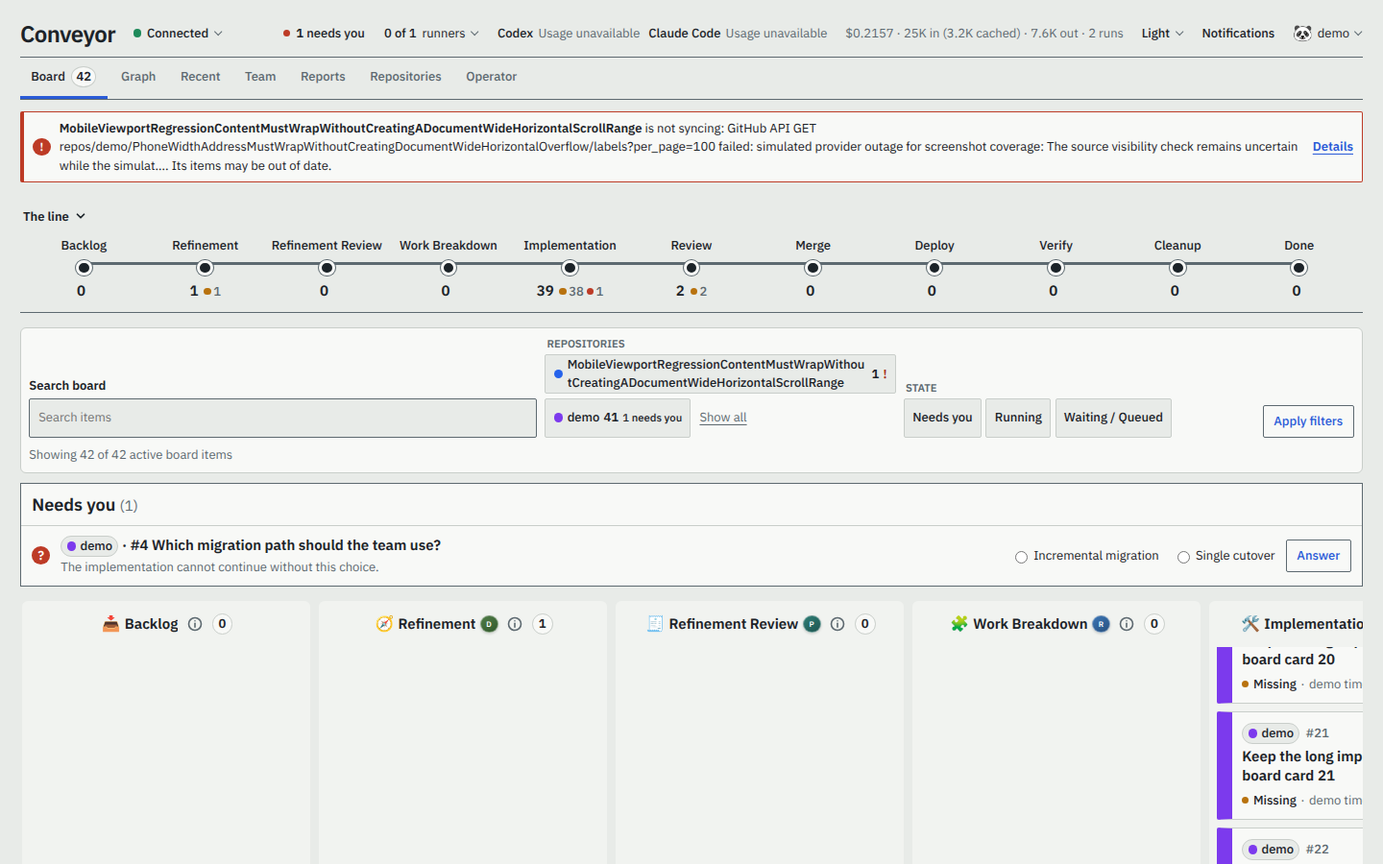
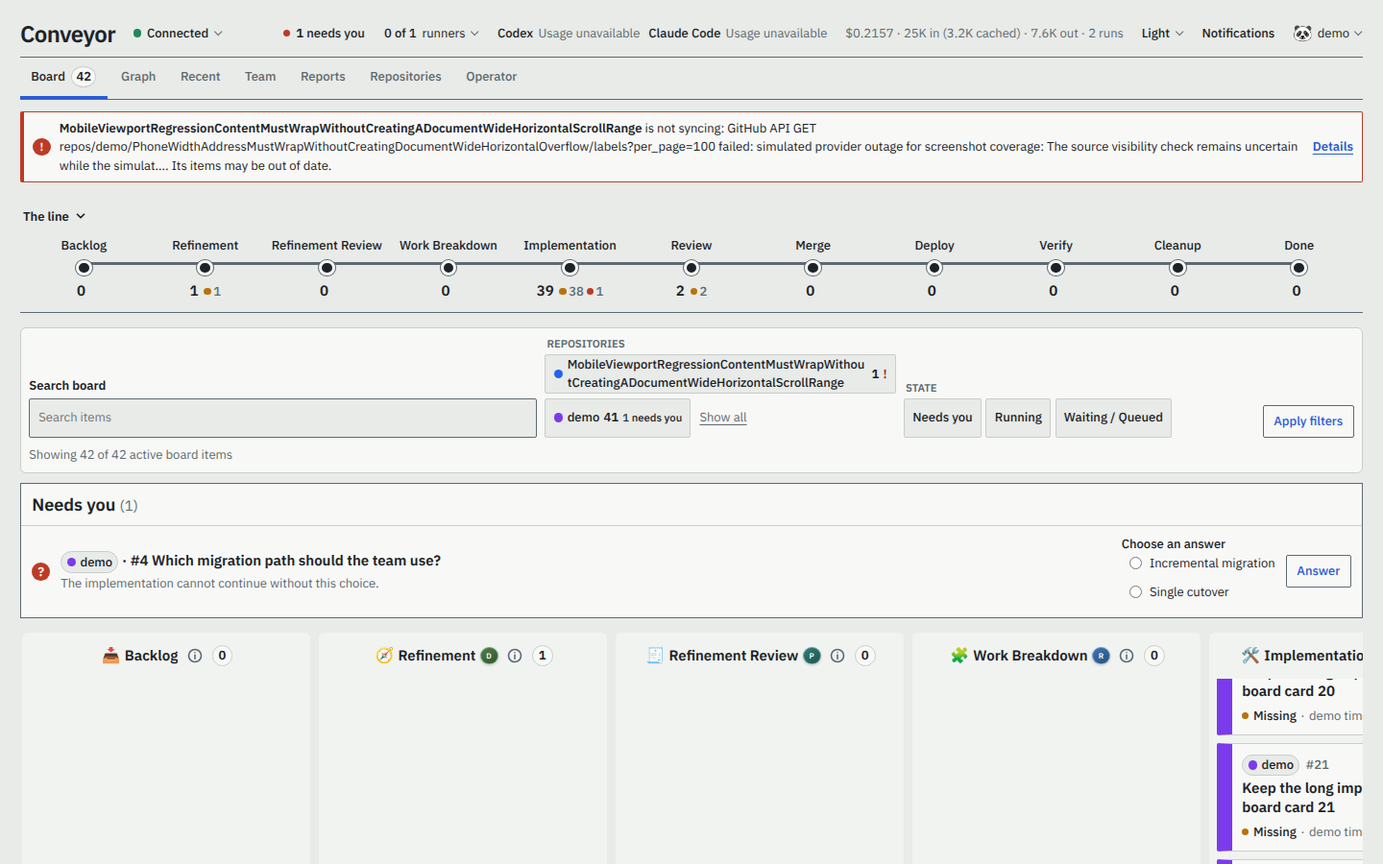
Show described question choices

diff --git a/src/web/styles.ts b/src/web/styles.ts
@@ -21,7 +21,7 @@ export const dashboardCss = `
 .line{margin:.8rem 0 1rem;padding:.55rem .2rem .7rem;border-bottom:1px solid var(--steel)}.line>h2{margin:0 0 .4rem;font-size:var(--text-sm);font-weight:600}.line ol{display:flex;margin:0;padding:0;list-style:none}.line-station{position:relative;flex:1;min-width:5.5rem}.line-station::after{content:"";position:absolute;z-index:0;top:1.8rem;right:50%;left:-50%;height:3px;background:var(--steel)}.line-station:first-child::after{left:50%}.line-station a{position:relative;z-index:1;display:grid;justify-items:center;gap:.32rem;color:var(--ink);font-size:var(--text-sm);font-weight:500;text-align:center;text-decoration:none}.line-station a::before{content:"";order:2;width:.72rem;height:.72rem;border:3px solid var(--panel);border-radius:50%;background:var(--ink);box-shadow:0 0 0 1px var(--steel)}.line-station-name{order:1;white-space:nowrap}.line-station-state{order:3;display:flex;align-items:center;gap:.38rem;color:var(--steel);font-variant-numeric:tabular-nums}.line-station-state strong{color:var(--ink);font-size:var(--text-body)}.andon-signals,.andon-count{display:flex;align-items:center;gap:.18rem;min-height:.5rem}.andon-count small{font-size:var(--text-sm)}.andon{display:block;width:.48rem;height:.48rem;flex:none;border-radius:50%}.andon--run{background:var(--run)}.andon--wait{background:var(--wait)}.andon--stop{background:var(--stop)}.line-station--running::after{background:repeating-linear-gradient(90deg,var(--steel) 0 8px,var(--panel) 8px 12px);background-size:24px 3px}
 .repository-warnings{margin:0 0 .8rem}.repository-warnings ul{display:grid;gap:.35rem;margin:0;padding:0;list-style:none}.repository-warnings li{display:flex;align-items:center;gap:.6rem;padding:.45rem .6rem;border:1px solid var(--stop);border-left-width:4px;border-radius:2px;background:var(--panel);font-size:var(--text-sm)}.repository-warning-mark{display:inline-flex;flex:none;align-items:center;justify-content:center;width:1.25rem;height:1.25rem;border-radius:50%;background:var(--stop);color:var(--panel);font-weight:700;font-size:.8rem}.repository-warning-text{flex:1;min-width:0;color:var(--ink);overflow-wrap:anywhere}.repository-warnings a{flex:none;display:inline-flex;align-items:center;min-height:2rem;color:var(--signal);font-weight:600}@media(max-width:760px){.repository-warnings li{align-items:flex-start}.repository-warnings a{min-height:2.75rem;align-items:flex-start;padding-top:.1rem}}
 .system-warnings{margin:0 0 1rem;padding:.7rem .8rem;border:1px solid var(--stop);background:var(--panel);color:var(--stop-text)}.system-warnings h2{margin:0 0 .3rem;font-size:var(--text-body);font-weight:600}.system-warnings ul{margin:0;padding-left:1.2rem;font-size:var(--text-sm)}
-.needs-you{margin:0 0 1rem;border:1px solid var(--steel);background:var(--panel)}.needs-you>header{padding:.55rem .75rem;border-bottom:1px solid var(--line)}.needs-you h2{margin:0;font-size:var(--text-lg);font-weight:600}.needs-you h2 span{color:var(--steel);font-size:var(--text-body);font-weight:400}.needs-you-empty{margin:0;padding:.75rem;color:var(--steel);font-size:var(--text-sm)}.needs-you>ol{margin:0;padding:0;list-style:none}.needs-you-item{display:grid;grid-template-columns:1.25rem minmax(0,1fr) auto;align-items:center;gap:.75rem;padding:.6rem .75rem}.needs-you-item+.needs-you-item{border-top:1px solid var(--line)}.needs-you-item>.andon{width:.58rem;height:.58rem;justify-self:center}.needs-you-item h3{margin:0;font-size:var(--text-body);font-weight:600}.needs-you-item p{margin:.05rem 0 0;color:var(--steel);font-size:var(--text-sm);display:-webkit-box;-webkit-box-orient:vertical;-webkit-line-clamp:3;overflow:hidden;overflow-wrap:anywhere}.needs-you-question{display:grid;width:1.25rem;height:1.25rem;place-items:center;line-height:1;border-radius:50%;background:var(--stop);color:var(--on-signal);font-size:var(--text-sm);font-weight:600}.needs-you-item form{display:flex;align-items:center;justify-content:flex-end;gap:.55rem;flex-wrap:wrap}.option{display:flex;align-items:center;gap:.2rem;margin:0;font-size:var(--text-sm)}.free-text{display:grid;gap:.25rem;min-width:12rem;margin:0;font-size:var(--text-sm);font-weight:500}.free-text input{min-width:0;border:1px solid var(--steel);padding:.35rem}
+.needs-you{margin:0 0 1rem;border:1px solid var(--steel);background:var(--panel)}.needs-you>header{padding:.55rem .75rem;border-bottom:1px solid var(--line)}.needs-you h2{margin:0;font-size:var(--text-lg);font-weight:600}.needs-you h2 span{color:var(--steel);font-size:var(--text-body);font-weight:400}.needs-you-empty{margin:0;padding:.75rem;color:var(--steel);font-size:var(--text-sm)}.needs-you>ol{margin:0;padding:0;list-style:none}.needs-you-item{display:grid;grid-template-columns:1.25rem minmax(0,1fr) auto;align-items:center;gap:.75rem;padding:.6rem .75rem}.needs-you-item+.needs-you-item{border-top:1px solid var(--line)}.needs-you-item>.andon{width:.58rem;height:.58rem;justify-self:center}.needs-you-item h3{margin:0;font-size:var(--text-body);font-weight:600}.needs-you-item p{margin:.05rem 0 0;color:var(--steel);font-size:var(--text-sm);display:-webkit-box;-webkit-box-orient:vertical;-webkit-line-clamp:3;overflow:hidden;overflow-wrap:anywhere}.needs-you-question{display:grid;width:1.25rem;height:1.25rem;place-items:center;line-height:1;border-radius:50%;background:var(--stop);color:var(--on-signal);font-size:var(--text-sm);font-weight:600}.needs-you-item form{display:flex;align-items:center;justify-content:flex-end;gap:.55rem;flex-wrap:wrap}.question-answer-fields{display:grid;min-width:0;gap:.45rem}.question-options{display:grid;min-width:0;gap:.3rem;margin:0;padding:0;border:0}.question-options legend{padding:0;font-size:var(--text-sm);font-weight:500}.option{display:flex;align-items:flex-start;gap:.35rem;min-width:0;margin:0;font-size:var(--text-sm)}.option input{flex:none;margin-top:.2rem}.option-copy{display:grid;min-width:0;gap:.1rem}.option-description{color:var(--steel);overflow-wrap:anywhere}.free-text{display:grid;min-width:12rem;gap:.25rem;margin:0;font-size:var(--text-sm);font-weight:500}.free-text input{width:100%;min-width:0;border:1px solid var(--steel);padding:.35rem}
 .tabs{display:flex;align-items:center;gap:.2rem;margin-bottom:.8rem;border-bottom:1px solid var(--steel)}.tab{display:flex;align-items:center;gap:.4rem;padding:.6rem .75rem;border-bottom:3px solid transparent;color:var(--steel);font-size:var(--text-sm);font-weight:500;text-decoration:none}.tab:hover{background:var(--panel)}.tab--active{border-bottom-color:var(--signal);color:var(--ink)}.needs-you-link{display:flex;align-items:center;gap:.35rem;color:var(--ink);font-size:var(--text-sm);font-weight:500;text-decoration:none;white-space:nowrap}.needs-you-link:hover{color:var(--signal)}.sticky-filter-summary{min-width:0;max-width:20rem;overflow:hidden;color:var(--steel);font-size:var(--text-sm);text-overflow:ellipsis;white-space:nowrap}#content,#needs-you-heading,[id^="station-"]{scroll-margin-top:calc(var(--dashboard-sticky-height) + .5rem)}.tab-count,.count{display:inline-grid;min-width:1.45rem;height:1.45rem;padding:0 .3rem;place-items:center;border:1px solid var(--line);border-radius:50%;background:var(--panel);color:var(--ink);font-size:var(--text-sm);font-weight:600;font-variant-numeric:tabular-nums}
 .board{display:flex;align-items:flex-start;gap:.6rem;overflow-x:auto;overscroll-behavior-x:contain;padding:.1rem .1rem 1rem;scrollbar-color:var(--steel) transparent}.stage{display:flex;flex-direction:column;scroll-margin-top:1rem;border:1px solid var(--line);border-radius:2px;background:var(--panel);padding:.65rem}.stage{width:min(20rem,86vw);min-width:min(20rem,86vw);max-width:min(20rem,86vw);flex:0 0 min(20rem,86vw)}.stage-heading{display:grid;grid-template-columns:minmax(0,1fr) auto;align-items:center;gap:.35rem .5rem;padding:0 0 .6rem}.stage-heading h2,.section-heading h2{margin:0;font-size:var(--text-lg);font-weight:600}.stage-identity,.stage-summary{display:contents}.stage-heading h2{grid-column:1;grid-row:1;min-width:0}.stage-heading .count{grid-column:2;grid-row:1}.stage-actors,.stage-cost{grid-column:1/-1}.stage-identity p{margin:.12rem 0 0;color:var(--steel);font-size:var(--text-sm)}.stage-identity strong{color:var(--ink);font-weight:500}.stage-cost{min-width:0;color:var(--steel);font-size:var(--text-sm);font-variant-numeric:tabular-nums;overflow-wrap:anywhere}.issue-list,.criteria-list,.relationships ul,.attention-grid,.agent-events,.agent-history ol{margin:0;padding:0;list-style:none}.issue-list{display:grid;gap:.55rem}.issue-list>li{min-width:0}.empty{margin:.2rem 0;padding:.75rem;color:var(--steel);font-size:var(--text-sm);text-align:center}
 .stage-actors{display:flex;flex-wrap:wrap;gap:.4rem;margin-top:.35rem}.stage-actor{display:flex;min-width:0;align-items:center;gap:.4rem;color:var(--steel);font-size:var(--text-sm)}.stage-actor>span:last-child{display:grid;min-width:0;line-height:1.2}.stage-actor strong{overflow:hidden;color:var(--ink);font-weight:500;text-overflow:ellipsis;white-space:nowrap}.stage-actor small{overflow:hidden;color:var(--steel);font-size:11px;text-overflow:ellipsis;white-space:nowrap}.agent-avatar{display:inline-grid;width:2rem;height:2rem;flex:0 0 2rem;place-items:center;border:1px solid rgba(255,255,255,.38);border-radius:50%;color:#fff;font-size:11px;font-weight:600;letter-spacing:.02em;line-height:1;box-shadow:0 1px 3px rgba(0,0,0,.18)}.agent-avatar--1{background:linear-gradient(145deg,#7357b8,#493184)}.agent-avatar--2{background:linear-gradient(145deg,#b34c78,#7c2854)}.agent-avatar--3{background:linear-gradient(145deg,#2f7e75,#1d5550)}.agent-avatar--4{background:linear-gradient(145deg,#3b75b5,#28517f)}.agent-avatar--5{background:linear-gradient(145deg,#9a6435,#6d421e)}.agent-avatar--6{background:linear-gradient(145deg,#507d48,#31582b)}.agent-avatar--script{border-color:var(--line);background:var(--concrete);color:var(--steel);font-family:"IBM Plex Mono",monospace;box-shadow:none}

diff --git a/tests/web/refresh-position.test.ts b/tests/web/refresh-position.test.ts
@@ -197,7 +197,7 @@ function startDashboard(state: {
   revision: () => string;
   /** How long a command takes to be accepted. */
   commandDelayMs?: () => number;
-  answerQuestion?: () => Promise<void>;
+  answerQuestion?: (questionId: string, answer: string) => Promise<void>;
   approveManualGate?: () => Promise<void>;
   setBoardApprovalRequirement?: (required: boolean) => void;
   systemStatus?: () => SystemStatusViewModel;
@@ -228,7 +228,7 @@ function startDashboard(state: {
     return work();
   };
   const { commands } = fakeCommandBus({
-    answerQuestion: () => delayed(() => state.answerQuestion?.()), approveManualGate: () => delayed(() => state.approveManualGate?.()),
+    answerQuestion: (questionId: string, answer: string) => delayed(() => state.answerQuestion?.(questionId, answer)), approveManualGate: () => delayed(() => state.approveManualGate?.()),
     setBoardApprovalRequirement: (_issueId: string, _stageId: string, required: boolean) => delayed(() => state.setBoardApprovalRequirement?.(required)),
     reorderBacklog: () => {}, moveBacklogIssue: () => {}, startSteering: () => "run-1",
     postIssueMessage: () => ({}), retryIssue: () => ({}), resumeIssue: () => ({}), resumeRollupParent: () => ({}), dismissFinding: () => {},
@@ -1538,6 +1538,85 @@ describe("dashboard live refresh position", () => {
       await page.waitForFunction(() => !document.querySelector(".needs-you-item--question"));
       // Patched in place: the page was not reloaded.
       expect(await page.evaluate(() => (document.querySelector("main.dashboard") as unknown as { untouched?: boolean }).untouched === true)).toBe(true);
+    } finally {
+      server.stop(true);
+    }
+  }, 30_000);
+  test("question forms require an answer and submit the most recently chosen value", async () => {
+    const answers: string[] = [];
+    const question = {
+      id: "q-1", issueId: "card-1", repository: "sample", repositoryColor: 1, issueNumber: 3, issueTitle: "Card",
+      prompt: "Which behavior?", reason: "It decides the schema.",
+      options: [
+        { id: "keep_today", label: "Keep today's behavior", description: "Keep the current behavior." },
+        { id: "adopt_issue", label: "Use issue behavior", description: "Use the issue behavior." },
+      ], allowFreeText: true,
+    };
+    const server = startDashboard({
+      dashboard: () => ({ ...dashboard("question-form", [issue("card-1", 3, "Card")]), questions: [question] }),
+      revision: () => "question-form",
+      answerQuestion: async (_questionId, answer) => { answers.push(answer); },
+    });
+    try {
+      browser = await chromium.launch({ headless: true });
+      const page = await browser.newPage({ viewport: { width: 360, height: 800 }, isMobile: true, hasTouch: true });
+      await signIn(page, server.port);
+      const form = page.locator("[data-answer-form]");
+      const submit = form.locator(".answer-button");
+
+      await submit.click();
+      await page.waitForFunction(() => document.querySelector("[data-answer-status]")?.textContent === "An answer is required.");
+      expect(await form.locator("[data-answer-status]").getAttribute("data-error")).toBe("true");
+      expect(answers).toEqual([]);
+
+      await form.locator('[data-answer-choice][value="keep_today"]').check();
+      await submit.click();
+      await page.waitForFunction(() => document.querySelector("[data-answer-form] .answer-button")?.textContent === "Answered");
+      expect(answers).toEqual(["keep_today"]);
+
+      await page.reload();
+      await form.locator("[data-answer-free-text]").fill(" A custom answer ");
+      await submit.click();
+      await page.waitForFunction(() => document.querySelector("[data-answer-form] .answer-button")?.textContent === "Answered");
+      expect(answers).toEqual(["keep_today", " A custom answer "]);
+
+      await page.reload();
+      await form.locator('[data-answer-choice][value="keep_today"]').check();
+      await form.locator("[data-answer-free-text]").fill("A later custom answer");
+      await submit.click();
+      await page.waitForFunction(() => document.querySelector("[data-answer-form] .answer-button")?.textContent === "Answered");
+      expect(answers).toEqual(["keep_today", " A custom answer ", "A later custom answer"]);
+
+      await page.reload();
+      await form.locator("[data-answer-free-text]").fill("An earlier custom answer");
+      await form.locator('[data-answer-choice][value="adopt_issue"]').check();
+      await submit.click();
+      await page.waitForFunction(() => document.querySelector("[data-answer-form] .answer-button")?.textContent === "Answered");
+      expect(answers).toEqual(["keep_today", " A custom answer ", "A later custom answer", "adopt_issue"]);
+    } finally {
+      server.stop(true);
+    }
+  }, 30_000);
+  test("question forms fit a phone viewport in light and dark themes", async () => {
+    const question = {
+      id: "q-1", issueId: "card-1", repository: "sample", repositoryColor: 1, issueNumber: 3, issueTitle: "Card",
+      prompt: "Which behavior?", reason: "It decides the schema.",
+      options: [{ id: "keep_today", label: "Keep today's behavior", description: "Averylongdescriptionwithoutspacesmuststillwrapatthephoneviewportwidth." }],
+      allowFreeText: true,
+    };
+    const server = startDashboard({
+      dashboard: () => ({ ...dashboard("question-layout", [issue("card-1", 3, "Card")]), questions: [question] }),
+      revision: () => "question-layout",
+    });
+    try {
+      browser = await chromium.launch({ headless: true });
+      for (const colorScheme of ["light", "dark"] as const) {
+        const page = await browser.newPage({ viewport: { width: 360, height: 800 }, isMobile: true, hasTouch: true, colorScheme });
+        await signIn(page, server.port);
+        await page.locator(".needs-you-item--question").waitFor();
+        expect(await page.evaluate(() => document.documentElement.scrollWidth <= window.innerWidth)).toBe(true);
+        await page.close();
+      }
     } finally {
       server.stop(true);
     }

diff --git a/src/web/app/behaviour.ts b/src/web/app/behaviour.ts
@@ -479,9 +479,25 @@ async function post(url: string, fields: URLSearchParams): Promise<{ ok: true; b
   return { ok: true, body };
 }
 
+function questionAnswer(form: HTMLFormElement): string | null {
+  const custom = form.querySelector<HTMLInputElement>("[data-answer-free-text]");
+  const choice = form.querySelector<HTMLInputElement>("[data-answer-choice]:checked");
+  const customAnswer = custom?.value;
+  if (form.dataset.answerSource === "free-text" && customAnswer?.trim()) return customAnswer;
+  if (form.dataset.answerSource === "choice" && choice) return choice.value;
+  if (customAnswer?.trim()) return customAnswer;
+  return choice?.value ?? null;
+}
+
 function formFields(form: HTMLFormElement, csrfToken: string): URLSearchParams {
   const fields = new URLSearchParams();
   for (const [name, value] of new FormData(form)) if (typeof value === "string") fields.append(name, value);
+  if (form.matches("[data-answer-form]")) {
+    const answer = questionAnswer(form);
+    fields.delete("answer");
+    fields.delete("freeText");
+    if (answer !== null) fields.set("answer", answer);
+  }
   fields.set("csrf", csrfToken);
   return fields;
 }
@@ -572,20 +588,33 @@ async function submitForm(form: HTMLFormElement, csrfToken: string): Promise<boo
     const button = form.querySelector("button[type='submit']");
     const status = form.querySelector("[data-answer-status]");
     if (!(button instanceof HTMLButtonElement) || button.disabled) return true;
+    if (questionAnswer(form) === null) {
+      if (status instanceof HTMLElement) {
+        status.textContent = "An answer is required.";
+        status.dataset.error = "true";
+      }
+      return true;
+    }
     const label = button.textContent;
     button.disabled = true;
     button.setAttribute("aria-busy", "true");
     button.textContent = "Answering…";
-    if (status) status.textContent = "";
+    if (status instanceof HTMLElement) {
+      status.textContent = "";
+      delete status.dataset.error;
+    }
     try {
       await post(form.action, formFields(form, csrfToken));
       button.textContent = "Answered";
-      if (status) status.textContent = "Answer recorded. The agent continues.";
+      if (status instanceof HTMLElement) status.textContent = "Answer recorded. The agent continues.";
     } catch (error) {
       button.disabled = false;
       button.removeAttribute("aria-busy");
       button.textContent = label;
-      if (status) status.textContent = error instanceof Error ? error.message : "Your answer could not be recorded. Try again.";
+      if (status instanceof HTMLElement) {
+        status.textContent = error instanceof Error ? error.message : "Your answer could not be recorded. Try again.";
+        status.dataset.error = "true";
+      }
     }
     return true;
   }
@@ -939,10 +968,25 @@ export function bindBoardBehaviour(options: { root: HTMLElement; store: LiveStor
     return { ...filtersFromUrl(), ...(search instanceof HTMLInputElement ? { q: search.value } : {}) };
   };
   root.addEventListener("input", (event) => {
-    if (event.target instanceof HTMLInputElement && event.target.matches("[data-filter-search]")) writeBoardFilters(root, currentFilters(), redraw);
+    const input = event.target;
+    if (!(input instanceof HTMLInputElement)) return;
+    if (input.matches("[data-answer-free-text]")) {
+      const form = input.closest<HTMLFormElement>("[data-answer-form]");
+      if (form) {
+        const choice = form.querySelector<HTMLInputElement>("[data-answer-choice]:checked");
+        if (input.value.trim()) form.dataset.answerSource = "free-text";
+        else if (choice) form.dataset.answerSource = "choice";
+        else delete form.dataset.answerSource;
+      }
+    }
+    if (input.matches("[data-filter-search]")) writeBoardFilters(root, currentFilters(), redraw);
   });
   root.addEventListener("change", (event) => {
     const input = event.target;
+    if (input instanceof HTMLInputElement && input.matches("[data-answer-choice]") && input.checked) {
+      const form = input.closest<HTMLFormElement>("[data-answer-form]");
+      if (form) form.dataset.answerSource = "choice";
+    }
     if (!(input instanceof HTMLInputElement) || !input.closest("[data-board-filters]")) return;
     const next = currentFilters();
     if (input.matches("[data-filter-repository]")) {

diff --git a/src/web/render.tsx b/src/web/render.tsx
@@ -1166,7 +1166,7 @@ function NeedsYou({ model }: { model: DashboardViewModel }) {
             </form> : <a class="needs-you-action action-button action-button--secondary" href={issueHref(issue.repository, issue.number)}>Open</a>}
           </li>
         ))}
-        {model.questions.map((question, questionIndex) => (
+        {model.questions.map((question) => (
           <li class={`needs-you-item needs-you-item--question repo-color-${question.repositoryColor}`} key={question.id}>
             <span class="needs-you-question" aria-hidden="true">?</span>
             <div>
@@ -1175,18 +1175,18 @@ function NeedsYou({ model }: { model: DashboardViewModel }) {
             </div>
             {canManage && question.answerError ? <p role="alert">{question.answerError}</p> : canManage && <form method="post" action={`/questions/${encodeURIComponent(question.id)}/answer`} data-answer-form>
               <input type="hidden" name="csrf" value={model.csrfToken} />
-              {question.allowFreeText ? (
-                <Fragment>
-                  <label class="free-text">Your answer<input name="answer" list={`question-options-${questionIndex}`} required /></label>
-                  <datalist id={`question-options-${questionIndex}`}>
-                    {question.options.map((option) => <option value={option.id} key={option.id}>{option.label}</option>)}
-                  </datalist>
-                </Fragment>
-              ) : question.options.map((option, optionIndex) => (
-                <label class="option" key={option.id}>
-                  <input type="radio" name="answer" value={option.id} required={optionIndex === 0} /> {option.label}
-                </label>
-              ))}
+              <div class="question-answer-fields">
+                {question.options.length > 0 && <fieldset class="question-options">
+                  <legend>Choose an answer</legend>
+                  {question.options.map((option, optionIndex) => (
+                    <label class="option" key={option.id}>
+                      <input type="radio" name="answer" value={option.id} data-answer-choice required={!question.allowFreeText && optionIndex === 0} />
+                      <span class="option-copy"><span>{option.label}</span>{option.description !== undefined && <span class="option-description">{option.description}</span>}</span>
+                    </label>
+                  ))}
+                </fieldset>}
+                {question.allowFreeText && <label class="free-text">Or write your own answer<input name="freeText" data-answer-free-text /></label>}
+              </div>
               <button class="answer-button action-button action-button--secondary" type="submit">Answer</button>
               <p class="answer-status" role="status" data-answer-status />
             </form>}

diff --git a/tests/web/render.test.ts b/tests/web/render.test.ts
@@ -1233,6 +1233,53 @@ describe("renderDashboard", () => {
     expect(invalid).not.toContain('/questions/question%2F1/answer');
   });
 
+  test("renders every described choice beside its radio and a custom-answer field", () => {
+    const html = renderDashboard({
+      ...dashboard,
+      questions: [{
+        ...dashboard.questions[0]!,
+        allowFreeText: true,
+        options: [
+          { id: "keep_today", label: "Keep today's behavior", description: "Continue using the current rule." },
+          { id: "adopt_issue", label: "Use issue behavior", description: "Apply the behavior requested by this issue." },
+        ],
+      }],
+    });
+
+    expect(html).toContain('type="radio" name="answer" value="keep_today"');
+    expect(html).toContain("Keep today's behavior");
+    expect(html).toContain("Continue using the current rule.");
+    expect(html).toContain('type="radio" name="answer" value="adopt_issue"');
+    expect(html).toContain("Use issue behavior");
+    expect(html).toContain("Apply the behavior requested by this issue.");
+    expect(html).toContain('class="free-text">Or write your own answer');
+    expect(html).toContain('name="freeText"');
+  });
+
+  test("renders descriptions for option-only questions and supports legacy and free-text-only questions", () => {
+    const described = renderDashboard({
+      ...dashboard,
+      questions: [{ ...dashboard.questions[0]!, options: [{ id: "keep_today", label: "Keep today's behavior", description: "Continue using the current rule." }] }],
+    });
+    expect(described).toContain('type="radio" name="answer" value="keep_today"');
+    expect(described).toContain("Keep today's behavior");
+    expect(described).toContain("Continue using the current rule.");
+
+    const legacy = renderDashboard({
+      ...dashboard,
+      questions: [{ ...dashboard.questions[0]!, options: [{ id: "legacy", label: "Legacy choice" }] }],
+    });
+    expect(legacy).toContain('type="radio" name="answer" value="legacy"');
+    expect(legacy).toContain("Legacy choice");
+
+    const freeTextOnly = renderDashboard({
+      ...dashboard,
+      questions: [{ ...dashboard.questions[0]!, options: [], allowFreeText: true }],
+    });
+    expect(freeTextOnly).toContain('class="free-text">Or write your own answer');
+    expect(freeTextOnly).toContain('name="freeText"');
+  });
+
   test("gives running and needs-attention cards distinct accessible glows", () => {
     const runningParent = { ...parent, blocked: false, needsAttention: false, tone: "active" as const };
     const boardHtml = renderDashboard({

diff --git a/src/questions.ts b/src/questions.ts
@@ -1,6 +1,7 @@
 export interface QuestionOption {
   id: string;
   label: string;
+  description?: string;
 }
 
 /**
@@ -10,7 +11,7 @@ export interface QuestionOption {
 export function questionOptions(options: readonly unknown[]): QuestionOption[] {
   const seen = new Set<string>();
   return options.flatMap((option) => {
-    const given = option && typeof option === "object" ? option as { id?: unknown; value?: unknown; label?: unknown } : null;
+    const given = option && typeof option === "object" ? option as { id?: unknown; value?: unknown; label?: unknown; description?: unknown } : null;
     const value = typeof option === "string"
       ? { id: option, label: option }
       : given && typeof given.label === "string" && (typeof given.id === "string" || given.id == null)
@@ -27,7 +28,7 @@ export function questionOptions(options: readonly unknown[]): QuestionOption[] {
     const label = value?.label.trim();
     if (!id || !label || seen.has(id)) return [];
     seen.add(id);
-    return [{ id, label }];
+    return [{ id, label, ...(typeof given?.description === "string" ? { description: given.description } : {}) }];
   });
 }
 

diff --git a/tests/web/server.test.ts b/tests/web/server.test.ts
@@ -729,6 +729,23 @@ describe("createWebHandler", () => {
     expect(await scripted.json()).toEqual({ error: "Choose one of the available answers." });
   });
 
+  test("passes selected option ids and custom text to question answers", async () => {
+    const { handler, auth, calls } = setup();
+    const { cookie } = await login(handler);
+    const csrf = auth.getSession(cookie)?.csrfToken ?? "";
+    const post = (answer: string) => handler(new Request("http://localhost/questions/q-1/answer", {
+      method: "POST", headers: { cookie, "content-type": "application/x-www-form-urlencoded" },
+      body: new URLSearchParams({ answer, csrf }),
+    }));
+
+    expect((await post("keep_today")).status).toBe(303);
+    expect((await post(" A custom answer ")).status).toBe(303);
+    expect(calls.answers).toEqual([
+      ["q-1", "keep_today", "operator"],
+      ["q-1", " A custom answer ", "operator"],
+    ]);
+  });
+
   test("answers a canonical question choice for the page script with JSON instead of a redirect", async () => {
     const { handler, auth, calls } = setup();
     const { cookie } = await login(handler);

diff --git a/tests/app/service-agent-tasks.test.ts b/tests/app/service-agent-tasks.test.ts
@@ -673,14 +673,14 @@ describe("agent.run through the service", () => {
 
   test("projects value-backed choices to the dashboard and stores their canonical web answer", async () => {
     const w = await setup({
-      questionOptions: [{ value: "current-main", label: "Current main commit" }],
+      questionOptions: [{ value: "current-main", label: "Current main commit", description: "Keep the branch as it is." }],
       allowFreeText: false,
     });
     await w.execute();
     const question = w.store.listOpenQuestions()[0]!;
     expect(w.service.dashboard("csrf").questions).toMatchObject([{
       id: question.id,
-      options: [{ id: "current-main", label: "Current main commit" }],
+      options: [{ id: "current-main", label: "Current main commit", description: "Keep the branch as it is." }],
     }]);
     await w.service.answerQuestion(question.id, "Current main commit");
     expect(w.store.getQuestion(question.id)?.answer).toEqual({ answer: "current-main" });

diff --git a/tests/questions.test.ts b/tests/questions.test.ts
@@ -26,8 +26,8 @@ describe("structured questions", () => {
       allowFreeText: false,
     };
     expect(questionOptions(question.options)).toEqual([
-      { id: "Discuss first", label: "Discuss first" },
-      { id: "Defer pull requests", label: "Defer pull requests" },
+      { id: "Discuss first", label: "Discuss first", description: "Open an issue before starting a pull request." },
+      { id: "Defer pull requests", label: "Defer pull requests", description: "Outside pull requests are not accepted yet." },
     ]);
     expect(questionConfigurationError(question.options, false)).toBeNull();
     expect(validatedQuestionAnswer(question, "Defer pull requests")).toBe("Defer pull requests");

diff --git a/src/web/types.ts b/src/web/types.ts
@@ -470,7 +470,7 @@ export interface QuestionViewModel {
   issueTitle: string;
   prompt: string;
   reason: string;
-  options: readonly { id: string; label: string }[];
+  options: readonly { id: string; label: string; description?: string }[];
   allowFreeText: boolean;
   answerError?: string | null;
 }

diff --git a/changes/495-described-question-choices.md b/changes/495-described-question-choices.md
@@ -1,0 +1,5 @@
+---
+section: Fixed
+---
+
+Dashboard questions now show every choice and its description, with a separate custom-answer field when free text is allowed.
